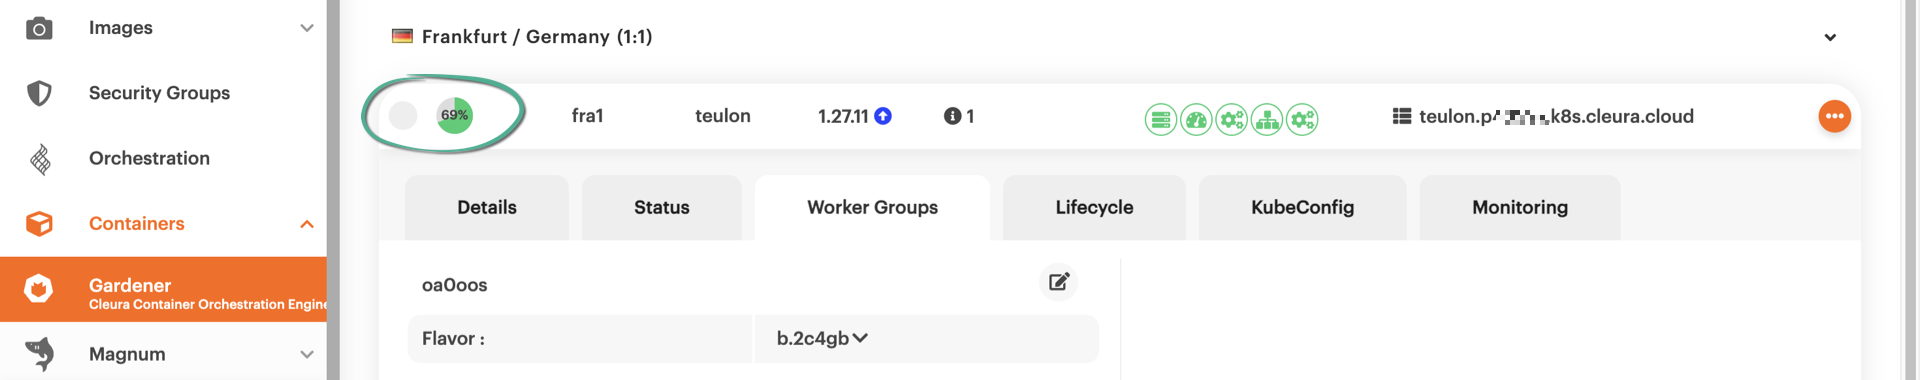
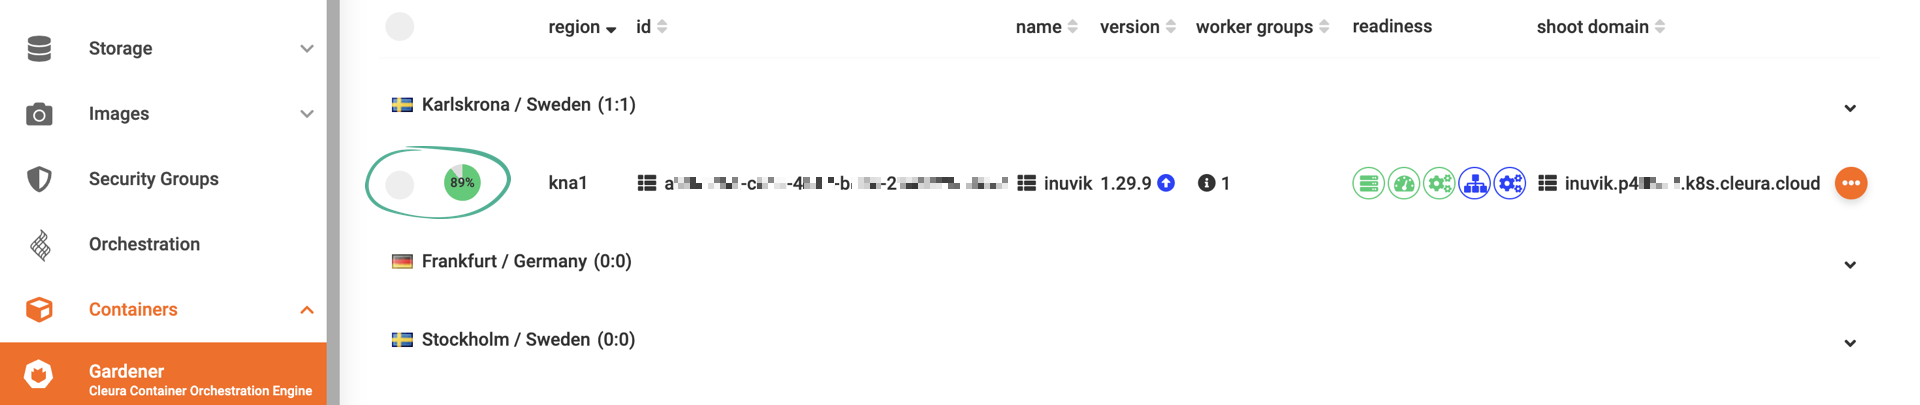
fix: Refresh rolling-upgrade shoot How-To guide
We support new Kubernetes versions, and we dropped
support for static kubeconfig files. Thus, we refresh
all screenshots and modify the prose accordingly.

diff --git a/docs/howto/kubernetes/gardener/rolling-upgrades.md b/docs/howto/kubernetes/gardener/rolling-upgrades.md
@@ -4,25 +4,28 @@ description: How to manually upgrade machine images or Kubernetes versions for G
 # Conducting rolling upgrades
 
 By default, Kubernetes clusters created with {{k8s_management_service}} in {{brand}} are upgraded automatically.
-Those upgrades take place during a specified maintenance window, and you may find out more about [what they involve and how they work](../../../background/kubernetes/gardener/autoupgrades.md).
+Those upgrades take place during a specified maintenance window, and you may learn more about [what they involve and how they work](../../../background/kubernetes/gardener/autoupgrades.md).
 Besides the automatic upgrades, you may manually apply any upgrades available for your cluster.
 
-In the following two examples, we first show how to manually upgrade the machine image the cluster nodes are based on.
-Then, we show how to upgrade the Kubernetes version the cluster uses.
+In the following two examples, we first show how to manually upgrade the machine image for cluster nodes.
+Then, we show how to upgrade the Kubernetes version the cluster is running.
 
 ## Upgrading machine images
 
 In the left-hand vertical pane of the {{gui}}, select Containers → [{{k8s_management_service}}](https://{{gui_domain}}/containers/gardener).
-In the central pane, you will see all your {{k8s_management_service}} clusters, each on its own row.
+In the central pane are your {{k8s_management_service}} clusters, each on its row.
 
-If a Kubernetes upgrade is available for a shoot cluster, in the *Version* column, you will notice a blue :fontawesome-solid-circle-arrow-up: icon together with the current Kubernetes version.
-Additionally, if there is a new machine image version for the cluster nodes, then in the *Worker Groups* column, you will also notice a blue :fontawesome-solid-circle-arrow-up: icon --- but no version number.
+If a Kubernetes upgrade is available for a shoot cluster, you will notice a blue :fontawesome-solid-circle-arrow-up: icon on the right of the current Kubernetes version.
+In our example, the current Kubernetes version is 1.29.9.
+Additionally, if there is a new machine image for the cluster nodes, you will also notice a blue :fontawesome-solid-circle-arrow-up: icon on the right of the number of Worker Groups.
+In our example, the cluster has 1 Worker Group.
 
 ![Garden Linux and Kubernetes upgrades available](assets/shoot-rollupgr-01.png)
 
 To get more information about the current machine image, click on the cluster row to bring its details into full view, then select the *Worker Groups* tab.
 There, you will see the version of the current machine image.
-To start the upgrade process, click any of the two :fontawesome-solid-arrow-up: icons.
+To see the newer version of the image available, hover the mouse over any of the two :fontawesome-solid-arrow-up: icons.
+The upgrade process starts by clicking on any one of those.
 
 ![About to start Garden Linux upgrade](assets/shoot-rollupgr-02.png)
 
@@ -31,9 +34,8 @@ The animated icon at the left-hand side of the cluster row marks the progress.
 
 ![Garden Linux upgrade in progress](assets/shoot-rollupgr-03.png)
 
-A little before and after it is done, there is no icon in the *Worker Groups* column, and the new image version is displayed in the
-*Image* row of the *Worker Groups* tab.
-Since we have not upgraded Kubernetes yet, an icon is still in the *Version* column.
+As soon as the upgrade is complete, the new image version is displayed in the *Image* row of the *Worker Groups* tab.
+Since we have not upgraded Kubernetes yet, there is still a blue :fontawesome-solid-circle-arrow-up: icon on the right of the current Kubernetes version.
 
 ![Garden Linux upgraded](assets/shoot-rollupgr-04.png)
 
@@ -47,38 +49,22 @@ Please select the option by clicking on it.
 ![Kubernetes patch available](assets/shoot-rollupgr-05.png)
 
 A new pop-up window named *Upgrade Kubernetes Version for: &lt;cluster_name&gt;* appears.
-From the *Version* drop-down menu, you may select the new Kubernetes version you want your cluster to upgrade to.
+From the *Version* drop-down menu, you may select the new Kubernetes version for your shoot cluster.
 When ready, click the blue *Upgrade* button.
 
 ![About to start a Kubernetes upgrade](assets/shoot-rollupgr-06.png)
 
-You will realize that the upgrade doesn't start right away.
-Instead, you are informed that the cluster is indeed ready for it, but there are some notes you might want to read up on *before* the actual process begins.
-The gist of the notes differs depending on whether you're upgrading a shoot with Kubernetes 1.26, or a shoot with Kubernetes 1.27 or higher.
-=== "Shoot with Kubernetes 1.26"
-    In summary, the notes inform you that any existing static kubeconfig will stop working after the upgrade to Kubernetes 1.27, and you will not be able to create a new static kubeconfig.
-    You will, however, be able to create [a new certificate-based kubeconfig](kubectl.md).
+The upgrade doesn't start right away.
+Instead, you are informed that the cluster is indeed ready for it, but there are some notes you might want to read up on before the actual process begins.
 
-    ![Upgrade notes are available](assets/shoot-rollupgr-07-26-01.png)
-
-    To disable support for static kubeconfigs for the existing cluster and thus prepare the shoot for the upgrade, click the blue button labeled *Prepare cluster upgrade*.
-    Another pop-up window appears, indicating that the preparation is underway.
-    Keep in mind that this might take up to ten minutes to complete.
-
-    ![Upgrade notes are available](assets/shoot-rollupgr-07-26-02.png)
-
-    When the shoot is ready for the upgrade, yet another window appears.
-    It lets you know that the shoot is now ready for the upgrade, reminds you that any existing static kubeconfig will not work after the upgrade is complete, and points out that you will not be able to create a new static kubeconfig.
-
-    ![Upgrade notes are available](assets/shoot-rollupgr-07-26-03.png)
-=== "Shoot with Kubernetes 1.27 or higher"
-    The notes link to the official Kubernetes changelog of the version you are about to upgrade to.
-    You may want to copy that link, paste it into a new browser window or tab, and take the time to read the changelog.
-
-    ![Upgrade notes are available](assets/shoot-rollupgr-07-27-01.png)
+![Upgrade notes are available](assets/shoot-rollupgr-07.png)
 
 Click the *Upgrade* button --- which is now green --- to start the upgrade process.
-After some minutes, the upgrade will be over.
-The new Kubernetes version will be visible in the *Version* column of the cluster row.
+The animated icon at the left-hand side of the cluster row indicates the progress of the whole upgrade process.
 
-![Kubernetes successfully upgraded](assets/shoot-rollupgr-08.png)
+![Kubernetes upgrade in progress](assets/shoot-rollupgr-08.png)
+
+After some minutes, the upgrade will be over.
+The new Kubernetes version will be visible on the right of the shoot cluster name.
+
+![Kubernetes successfully upgraded](assets/shoot-rollupgr-09.png)
